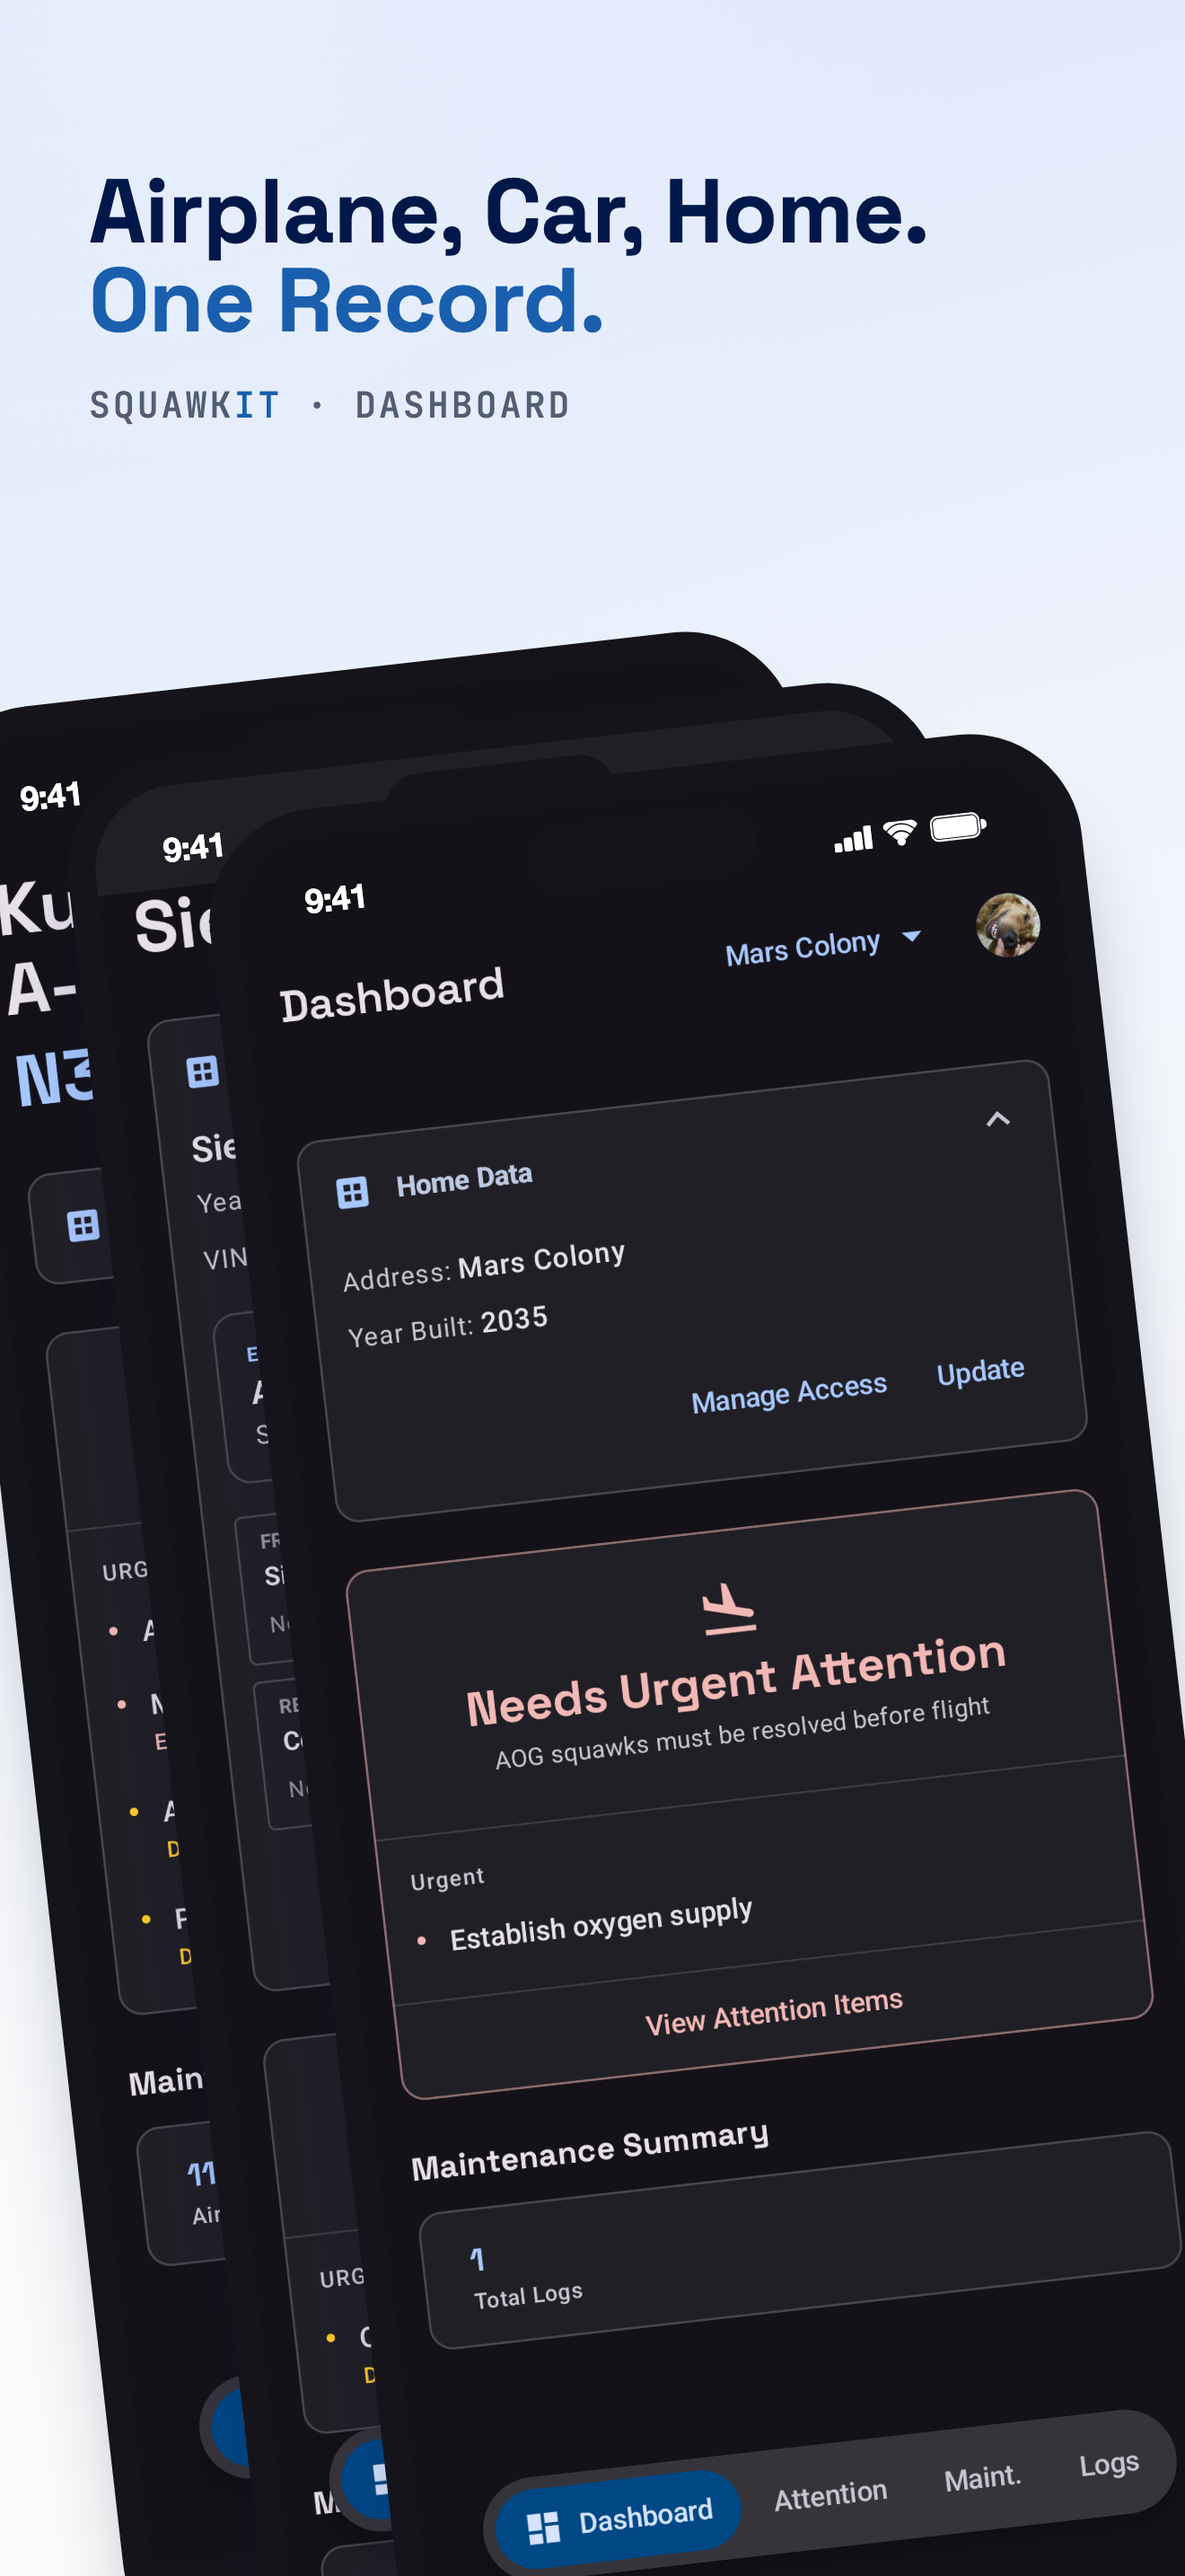
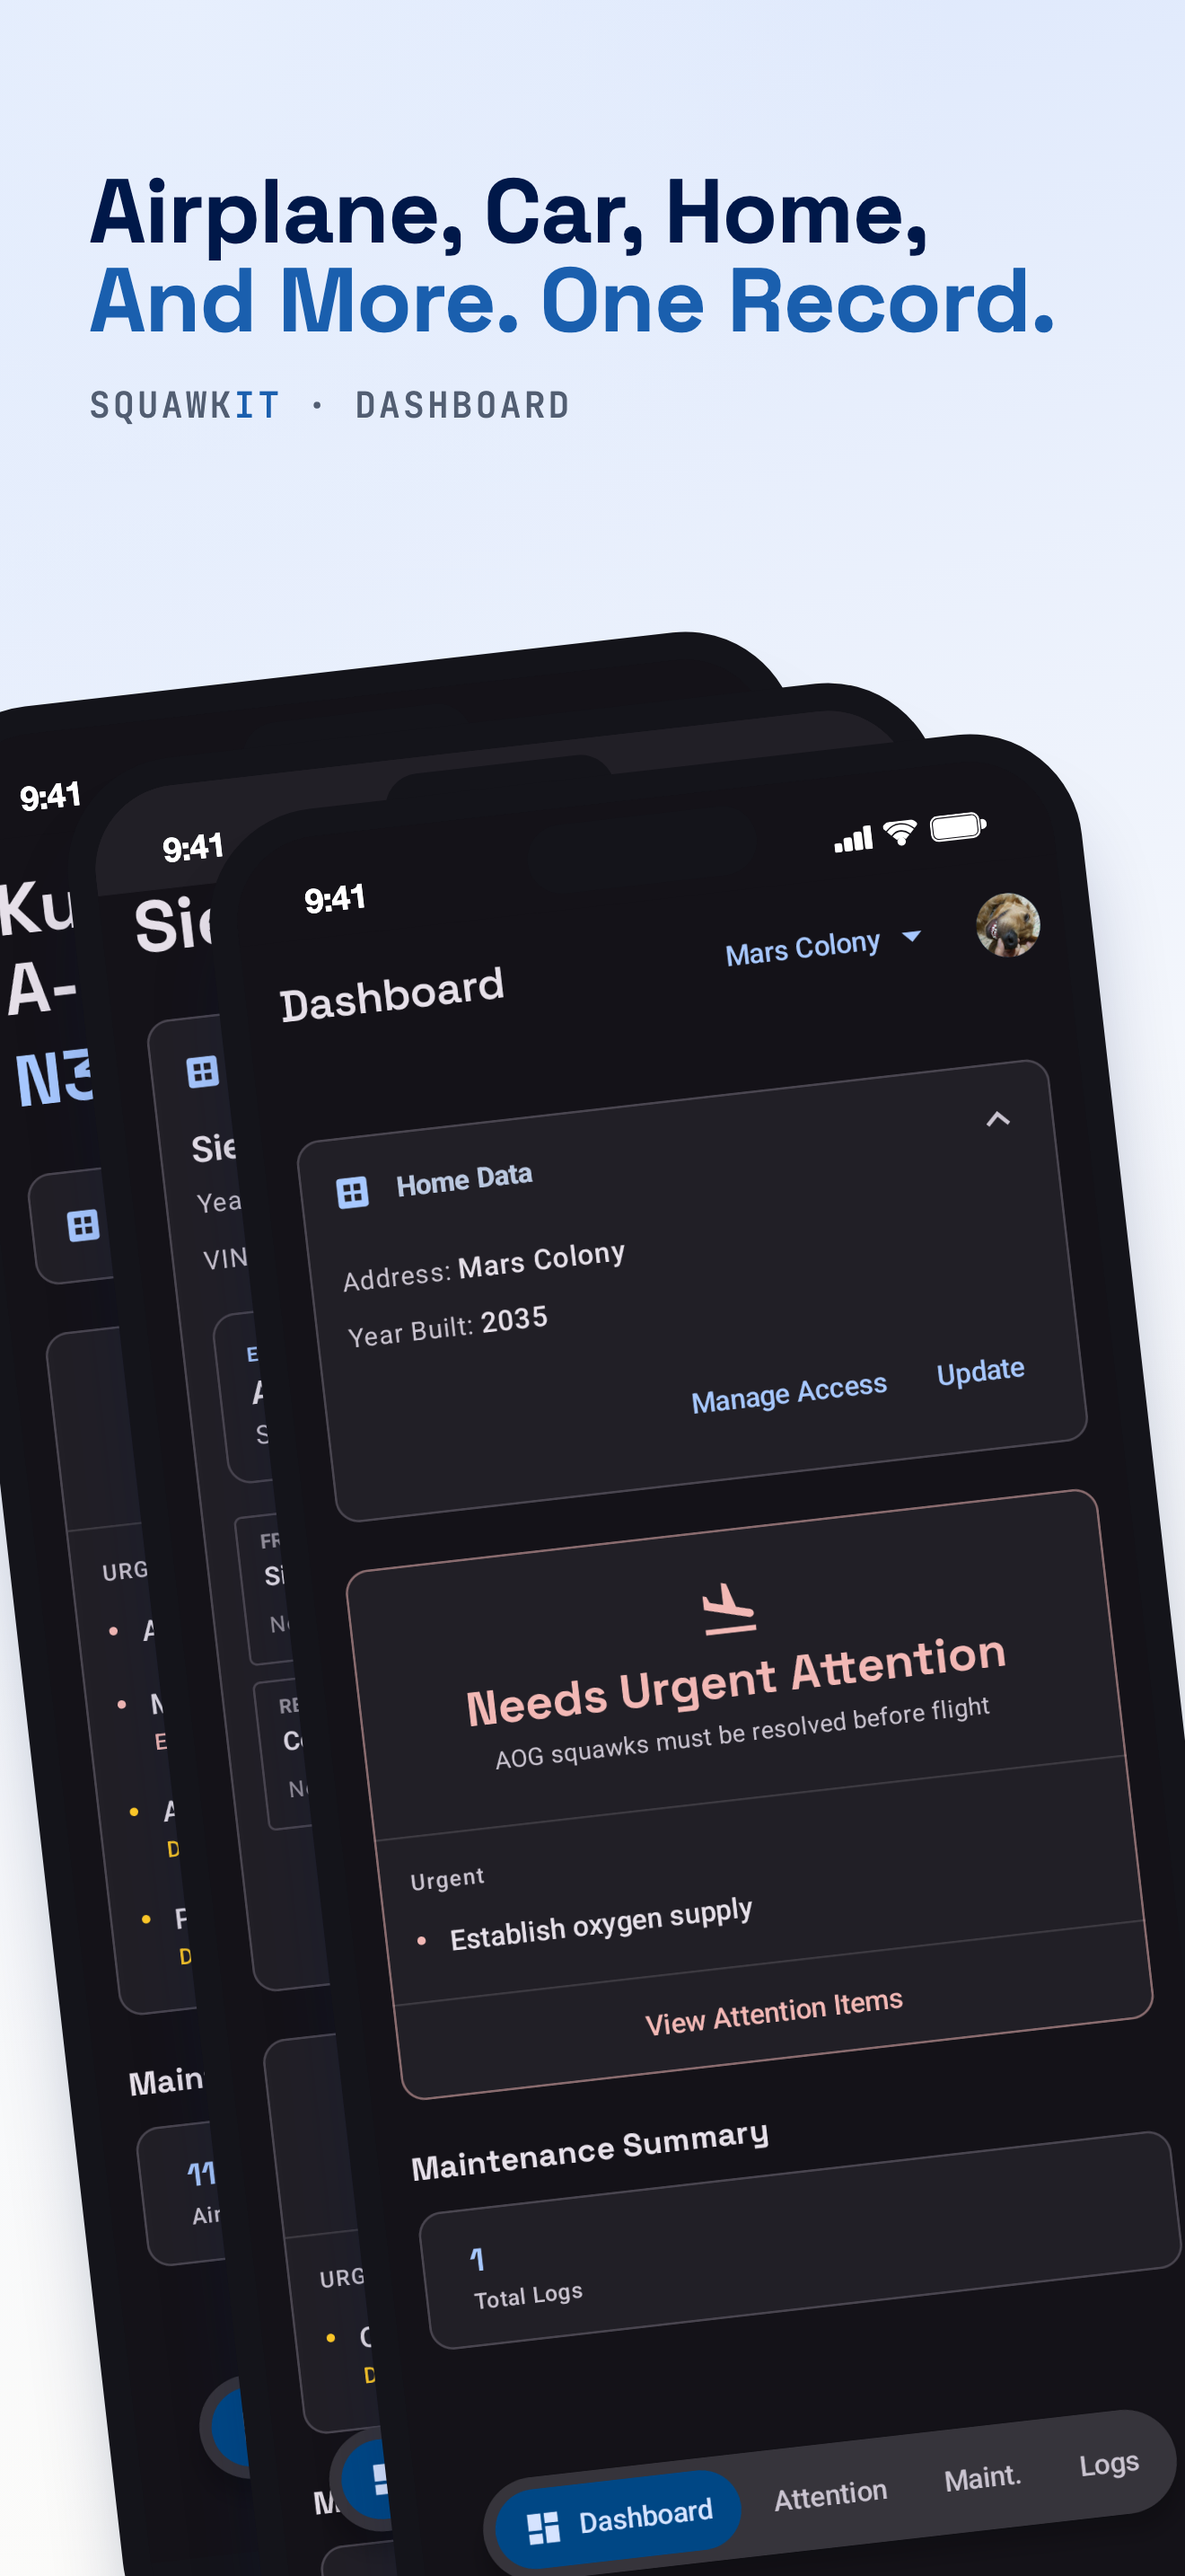
Say “and more” in the dashboard listing headline
Claude-Session: https://claude.ai/code/session_01LxPt4Q1dmTTxpVNJSWfxpp

Changed region(s): [[0.2485, 0.0931, 0.5902, 0.1552], [0.6212, 0.0931, 0.8697, 0.1552], [0.0621, 0.0931, 0.2174, 0.1552]]

diff --git a/docs/product/screenshot_generator/generate.py b/docs/product/screenshot_generator/generate.py
@@ -67,8 +67,8 @@ SCREENS = [
         "num": "01",
         "src": ["overview_1", "overview_2", "overview_3"],
         "feature_label": "Dashboard",
-        "l1": "Airplane, Car, Home.",
-        "l2": "One Record.",
+        "l1": "Airplane, Car, Home,",
+        "l2": "And More. One Record.",
         "object_position": "50% 6%",
     },
     {
